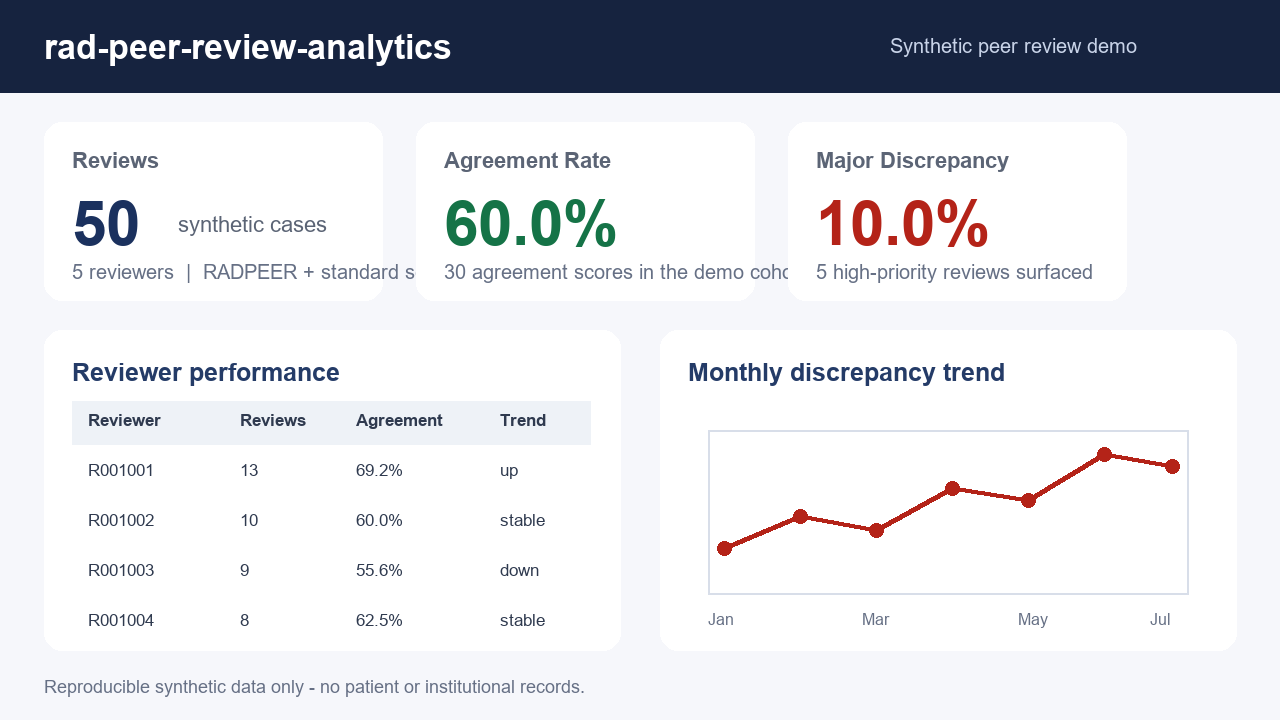
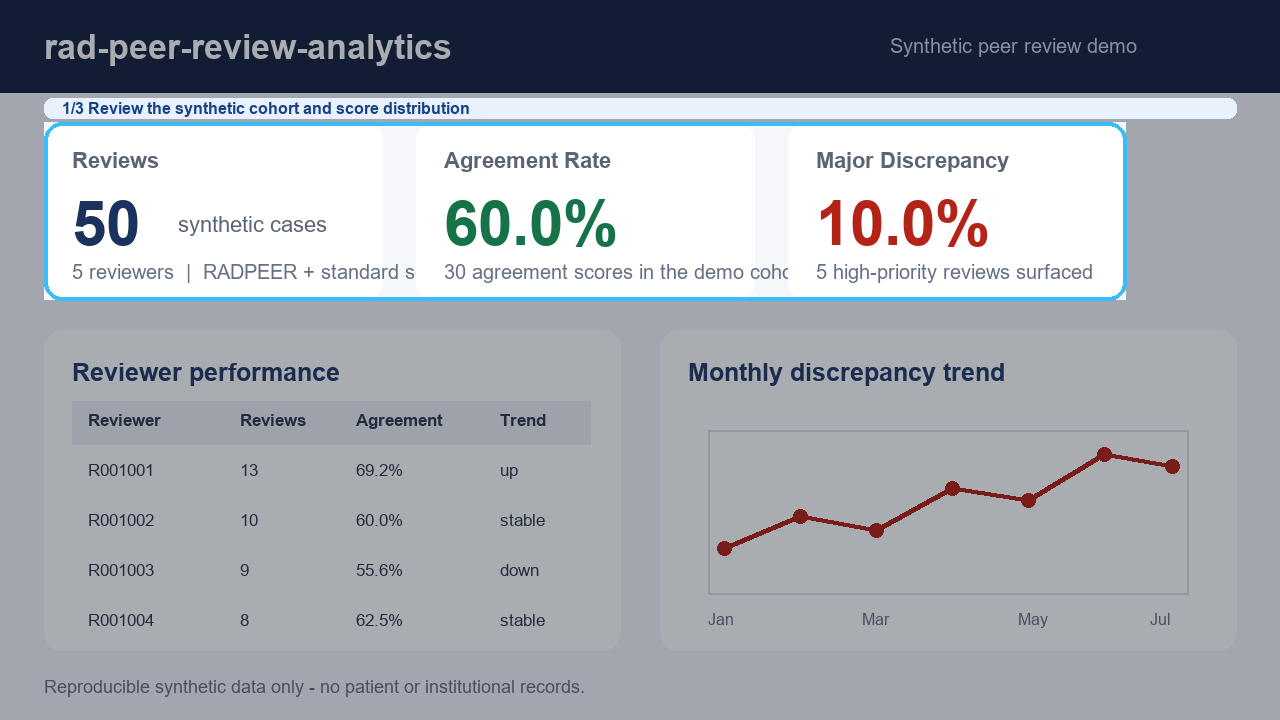
Upgrade README demo walkthrough media

diff --git a/scripts/generate_demo_media.py b/scripts/generate_demo_media.py
@@ -112,17 +112,37 @@ def render_frame() -> Image.Image:
     return image
 
 
+def guided_frame(base: Image.Image, step: int) -> Image.Image:
+    titles = (
+        "1/3 Review the synthetic cohort and score distribution",
+        "2/3 Compare reviewer-level agreement and trends",
+        "3/3 Focus the monthly discrepancy signal for follow-up",
+    )
+    focus_boxes = ((44, 122, 1126, 300), (44, 330, 620, 650), (660, 330, 1236, 650))
+    dimmed = Image.blend(base, Image.new("RGB", base.size, "#0b1220"), 0.35)
+    focus = focus_boxes[step]
+    dimmed.paste(base.crop(focus), focus)
+    draw = ImageDraw.Draw(dimmed)
+    draw.rounded_rectangle(focus, radius=18, outline="#38bdf8", width=4)
+    draw.rounded_rectangle((44, 98, 1236, 118), radius=8, fill="#e8f2ff")
+    label(draw, (62, 99), titles[step], 16, "#194185", True)
+    return dimmed
+
+
 def main() -> None:
     ASSET_DIR.mkdir(parents=True, exist_ok=True)
-    frame = render_frame()
-    frame.save(ASSET_DIR / "demo-poster.png")
-    frames = [frame.copy() for _ in range(4)]
+    base = render_frame()
+    frames = [guided_frame(base, step) for step in range(3)]
+    frames[0].save(ASSET_DIR / "demo-poster.png")
     frames[0].save(
-        ASSET_DIR / "demo.gif", save_all=True, append_images=frames[1:], duration=650, loop=0
+        ASSET_DIR / "demo.gif", save_all=True, append_images=frames[1:], duration=3000, loop=0
     )
-    with imageio.get_writer(ASSET_DIR / "demo.mp4", fps=1, codec="libx264", quality=8) as writer:
-        for still in frames:
-            writer.append_data(np.asarray(still))
+    with imageio.get_writer(
+        ASSET_DIR / "demo.mp4", fps=6, codec="libx264", quality=8, macro_block_size=None
+    ) as writer:
+        for frame in frames:
+            for _ in range(18):
+                writer.append_data(np.asarray(frame))
 
 
 if __name__ == "__main__":

diff --git a/README.md b/README.md
@@ -9,7 +9,9 @@
 
 `rad-peer-review-analytics` helps radiology departments track peer review data, score discrepancies, and generate analytics reports. It supports both the RADPEER score system (1/2/3a/3b) and a standard score system (agree/minor/major/not actionable), with automatic score conversion, discrepancy classification, and trend detection.
 
-![rad-peer-review-analytics synthetic demo](docs/assets/demo.gif)
+[![rad-peer-review-analytics synthetic demo](docs/assets/demo.gif)](https://cdn.jsdelivr.net/gh/AKaturu/rad-peer-review-analytics@master/docs/assets/demo.mp4)
+
+[Play the full demo video](https://cdn.jsdelivr.net/gh/AKaturu/rad-peer-review-analytics@master/docs/assets/demo.mp4)
 
 ## Evidence Status
 

diff --git a/docs/DEMO_MEDIA.md b/docs/DEMO_MEDIA.md
@@ -15,4 +15,4 @@ python -m pip install -e ".[media]"
 python scripts/generate_demo_media.py
 ```
 
-The generator renders a stable final frame and duplicates it for the GIF/MP4 so the demo does not flicker on GitHub.
+The generator creates a three-step guided walkthrough of cohort summary, reviewer-level performance, and the monthly discrepancy trend. The GIF is the inline GitHub preview; the MP4 is the full browser-playable clip.